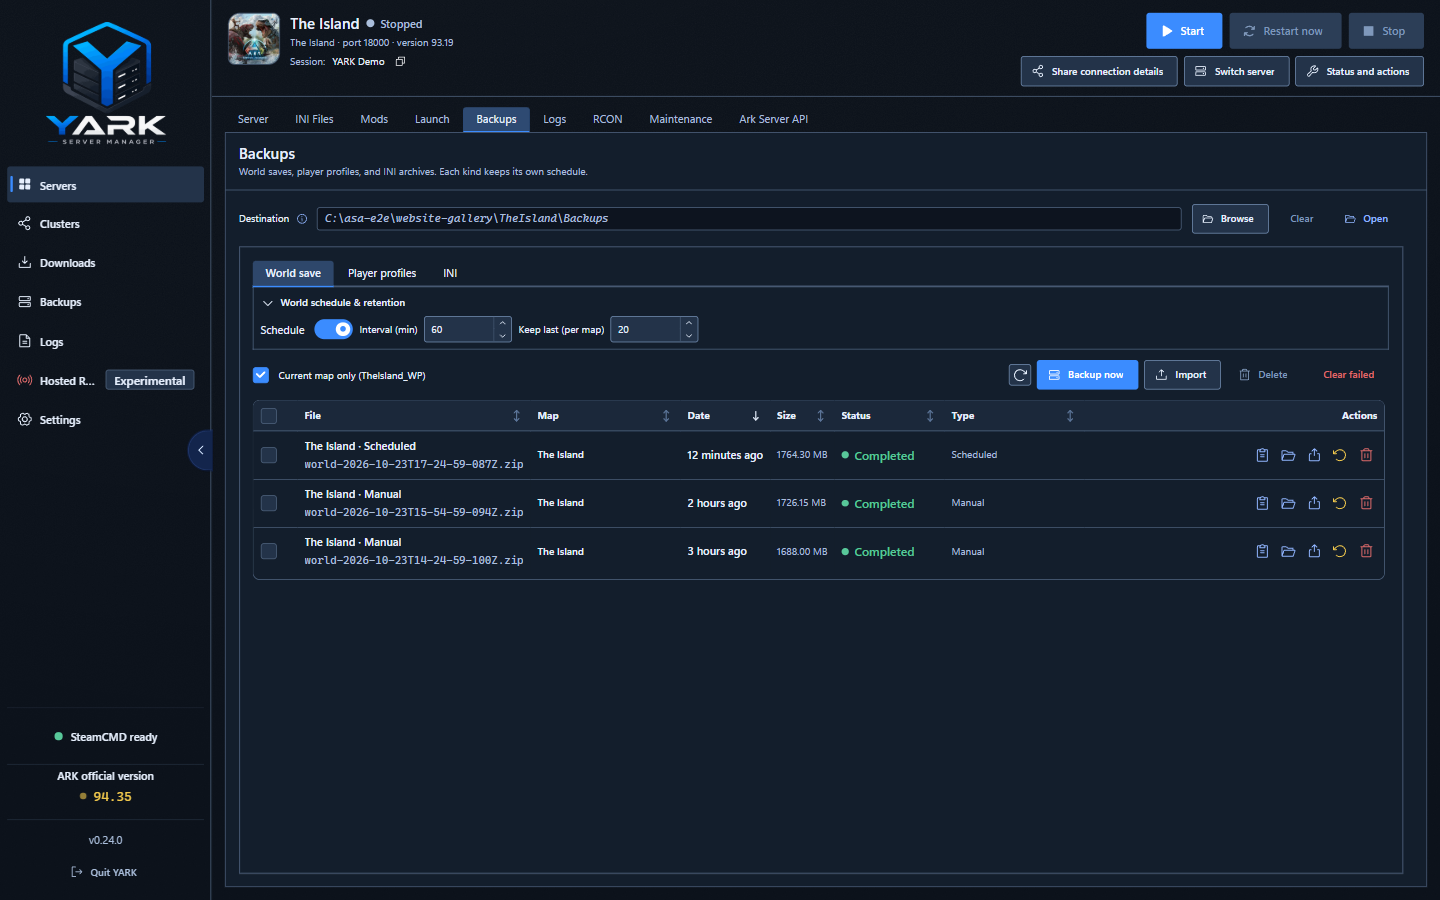
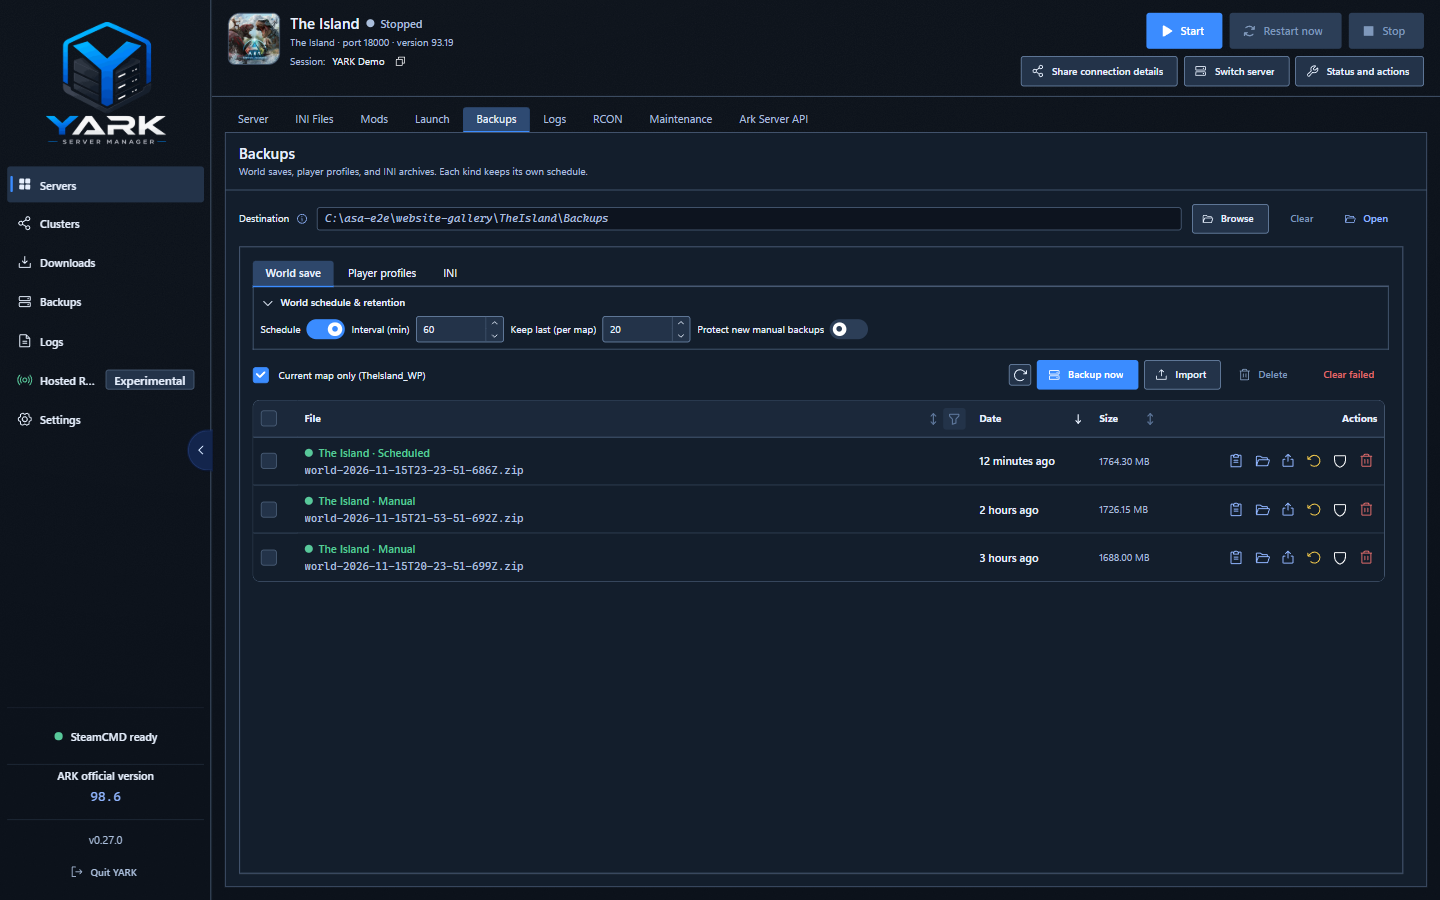
release: v0.27.0

diff --git a/src/shared/settings/changelog.ts b/src/shared/settings/changelog.ts
@@ -27,6 +27,36 @@ const DEFAULT_RECENT_CHANGELOG_LIMIT = 8;
  */
 export const changelog: ChangelogEntry[] = [
   {
+    version: "0.27.0",
+    date: "2026-11-15",
+    sections: [
+      {
+        title: "Highlights",
+        items: [
+          "On Server Mods, IDs copies All, Enabled, or Disabled Project IDs. Paste a list into Add. Find and Status narrow the list without changing load order.",
+          "Mark a completed backup Protected so Cleanup and Keep last leave it alone. You can still delete it, and World or INI can protect a new Backup now.",
+          "On Configuration → INI Files, sort the list or add a setting from the form above the table. The new row stays a draft until Save.",
+          "When Save overlaps a change made outside YARK, pick your edit, the file value, or the last save for each setting.",
+        ],
+      },
+      {
+        title: "Changed",
+        items: [
+          "Backup history puts status, map, and type on the File title, with those filters on the File header.",
+          "A backup whose ZIP was deleted outside YARK stays in history as missing on disk. Restore and export stay off until the file is back or you delete the row.",
+        ],
+      },
+      {
+        title: "Fixed",
+        items: [
+          "Create cluster and the setup assistant suggest an ID like yark-cluster-7f3a9c2e, so the in-game transfer list does not include other hosts that reused yark-cluster-1.",
+          "Transfer Save re-reads each member's INI when the cluster template is empty or only has tribute keys, so a later Apply INI template does not restore a stale snapshot.",
+          "Overrides and Loot Save no longer replay a stale draft after the file was already written.",
+        ],
+      },
+    ],
+  },
+  {
     version: "0.26.3",
     date: "2026-11-07",
     sections: [

diff --git a/src/renderer/src/features/backups/BackupHistoryTable.tsx b/src/renderer/src/features/backups/BackupHistoryTable.tsx
@@ -1,5 +1,5 @@
 import type { ReactElement } from "react";
-import { useCallback, useMemo, useRef, useState } from "react";
+import { useCallback, useEffect, useMemo, useRef, useState } from "react";
 import { HardDrives } from "@phosphor-icons/react";
 import type { DataTableSortStatus } from "mantine-datatable";
 import type { BackupKind, BackupRecord, BackupType } from "@shared/types";
@@ -51,11 +51,13 @@ export function BackupHistoryTable(props: Props): ReactElement {
   const [sortStatus, setSortStatus] = useState<DataTableSortStatus<BackupRecord>>(DEFAULT_BACKUP_HISTORY_SORT);
   const [metaFilter, setMetaFilter] = useState<BackupHistoryMetaFilterState>(EMPTY_BACKUP_HISTORY_META_FILTER);
   const recordsRef = useRef(props.records);
-  recordsRef.current = props.records;
   const selectedIdsRef = useRef(selectedIds);
-  selectedIdsRef.current = selectedIds;
   const onSelectedIdsChangeRef = useRef(onSelectedIdsChange);
-  onSelectedIdsChangeRef.current = onSelectedIdsChange;
+  useEffect(() => {
+    recordsRef.current = props.records;
+    selectedIdsRef.current = selectedIds;
+    onSelectedIdsChangeRef.current = onSelectedIdsChange;
+  }, [props.records, selectedIds, onSelectedIdsChange]);
 
   const typeFilterOptions = useMemo(() => {
     const seen = new Set<BackupType>();

diff --git a/CHANGELOG.md b/CHANGELOG.md
@@ -9,6 +9,8 @@ How to bump versions and cut releases: see [docs/versioning.md](docs/versioning.
 
 ## [Unreleased]
 
+## [0.27.0] - 2026-11-15
+
 ### Changed
 
 - Backup history drops separate Map, Status, and Type columns: the File title shows status color (and map · type), and Status/Type filters sit on the File header so medium panels need less horizontal scroll. File absorbs leftover width (Date/Size/Actions stay fixed) so an empty filter result does not jump columns, and long archive names use a soft clamp only on narrower panes. Deleting a protected backup shows the operator note in a raised callout on the confirm dialog.
